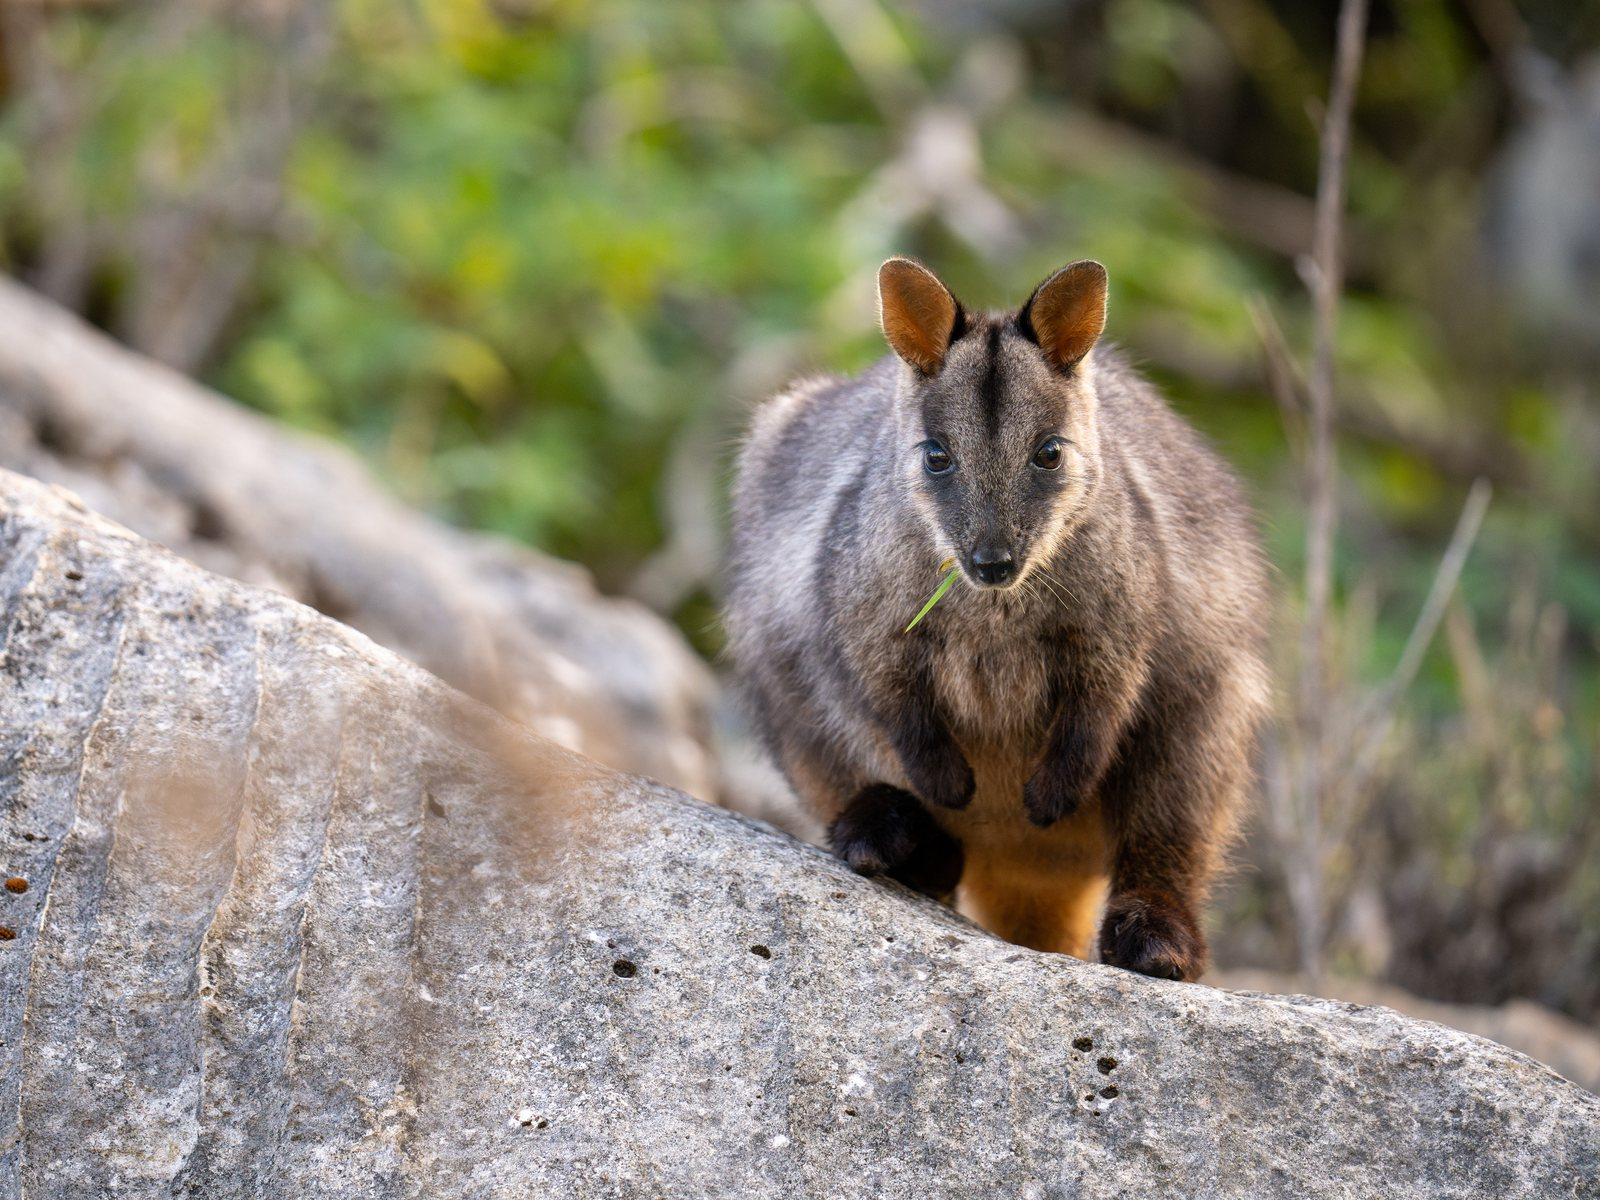
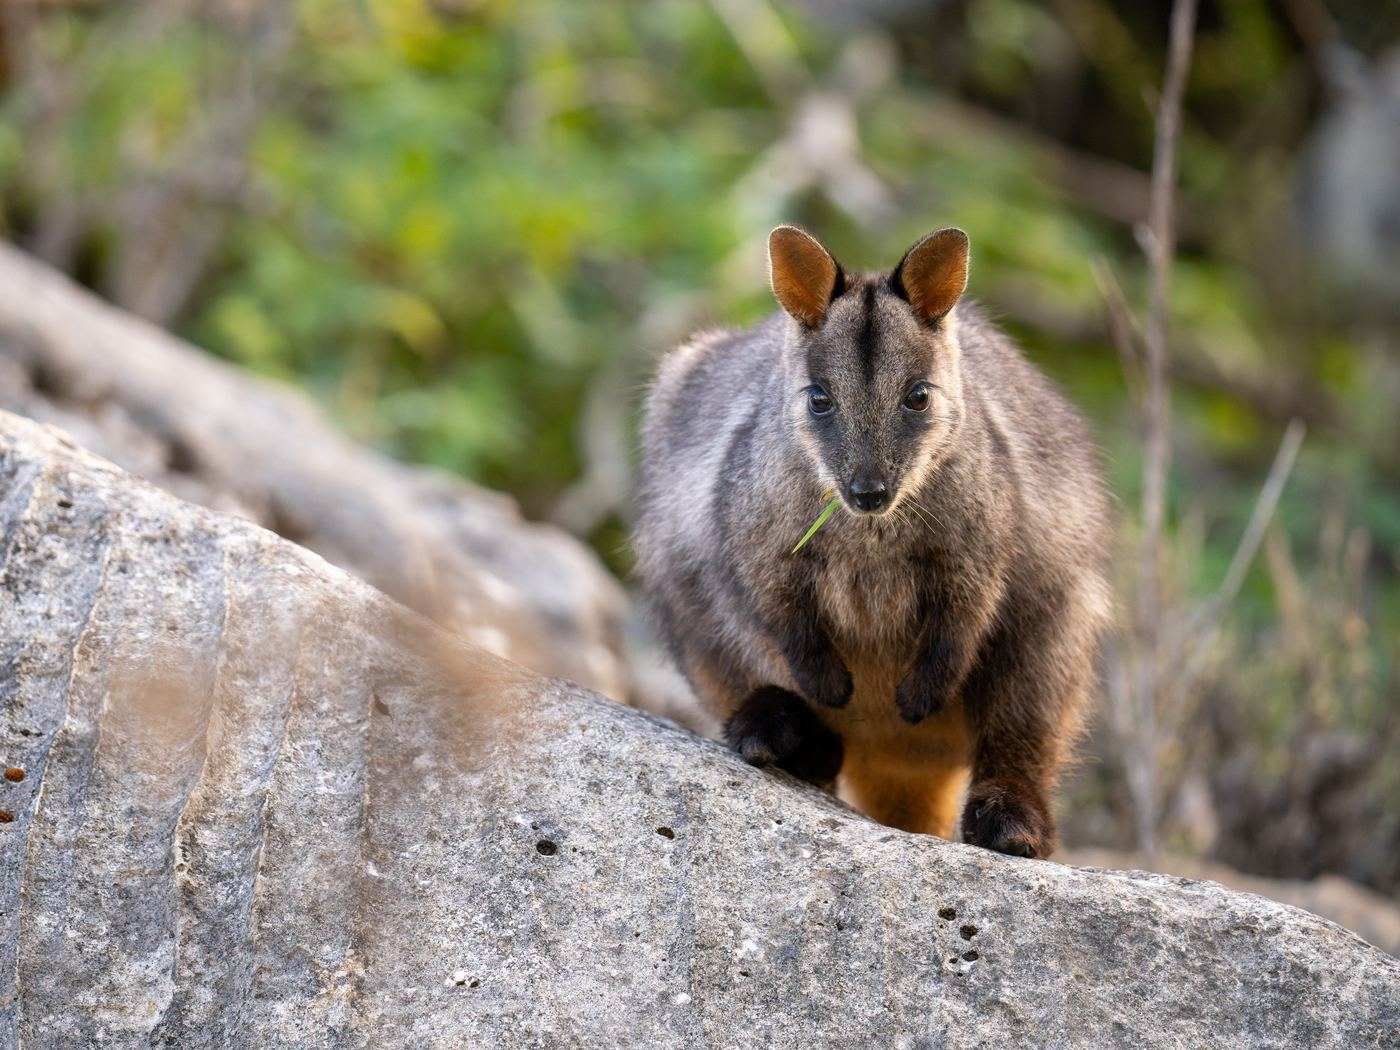
Saving Species tiles: rock-wallaby (Jenolan Caves/DCCEEW) on every tile, higher-res source
Claude-Session: https://claude.ai/code/session_01K1Uhp38GUsmwNgrm1DziWQ

diff --git a/growing-national-parks.html b/growing-national-parks.html
@@ -296,7 +296,7 @@
 <section class="sec ">
   <div class="cw rv">
 <span class='ey'>Keep exploring</span><h2 style='margin:.8rem 0 2.4rem'>The other two ways we work.</h2><div class='pcg'><a class="pcard pcard-species rv" href="saving-species.html">
-  <div class="pcard-im"><img src="assets/img/placeholder-species.svg" alt="" loading="lazy"></div>
+  <div class="pcard-im"><img src="assets/img/species-rock-wallaby.jpg" alt="A brush-tailed rock-wallaby on a boulder, looking straight at the camera with a grass stem in its mouth" loading="lazy"><span class="img-cr">Photo: Jenolan Caves/DCCEEW</span></div>
   <span class="pcard-rule" aria-hidden="true"></span>
   <span class="pcard-ey">Saving Species</span>
   <h3>Saving Species</h3>

diff --git a/healing-the-land.html b/healing-the-land.html
@@ -438,7 +438,7 @@
   <span class="pcard-go">See the projects</span>
 </a>
 <a class="pcard pcard-species rv" href="saving-species.html">
-  <div class="pcard-im"><img src="assets/img/placeholder-species.svg" alt="" loading="lazy"></div>
+  <div class="pcard-im"><img src="assets/img/species-rock-wallaby.jpg" alt="A brush-tailed rock-wallaby on a boulder, looking straight at the camera with a grass stem in its mouth" loading="lazy"><span class="img-cr">Photo: Jenolan Caves/DCCEEW</span></div>
   <span class="pcard-rule" aria-hidden="true"></span>
   <span class="pcard-ey">Saving Species</span>
   <h3>Saving Species</h3>

diff --git a/tools/build_gat.py b/tools/build_gat.py
@@ -222,7 +222,7 @@ HEAD = '''<!DOCTYPE html>
 HERO = '''
 <main>
 <section class="gt-hero">
-  <div class="gt-hero-bg"><img src="assets/img/placeholder-species.svg" alt="A koala resting in the fork of a eucalypt in open forest" fetchpriority="high" decoding="async"></div>
+  <div class="gt-hero-bg"><img src="assets/img/give-a-tree-koala.jpg" alt="A young koala climbing a eucalypt branch among fresh green gum leaves" fetchpriority="high" decoding="async"></div>
   <div class="cw rv">
     <div class="gt-hero-g">
       <div>

diff --git a/tools/gen_projects.py b/tools/gen_projects.py
@@ -400,7 +400,7 @@ def main():
                   'one vast, connected park precinct for South Australia, co-managed with the Nukunu Nation.')),
         'species': dict(
             tint='species',
-            hero_img='assets/img/placeholder-species.svg',
+            hero_img='assets/img/species-rock-wallaby.jpg',
             hero_alt='Koala resting in a eucalypt',
             stat=('18,582', 'treatments', 'delivered to wombats with mange'),
             stat_label='Treatments delivered',
